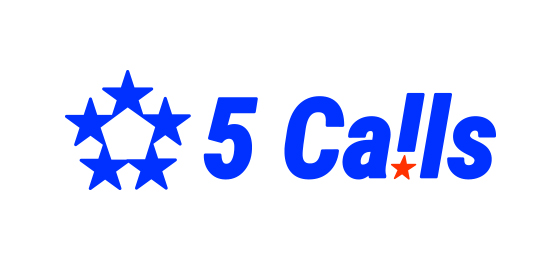
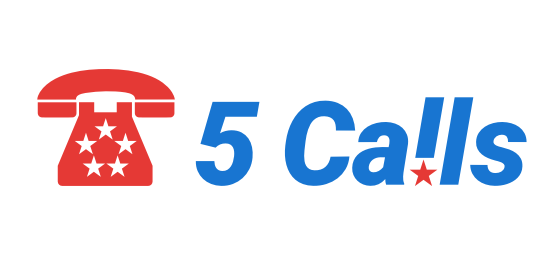
and we're puttin' it on wax, it's the new style

Changed region(s): [[0.0607, 0.2286, 0.4857, 0.6857], [0.4857, 0.3143, 0.9411, 0.6857]]

diff --git a/static/html/index.html b/static/html/index.html
@@ -7,14 +7,14 @@
 
     <!-- Schema.org markup for Google+ -->
     <meta itemprop="name" content="5 Calls">
-    <meta itemprop="description" content="5 calls a day to make your voice heard">
+    <meta itemprop="description" content="Spend 5 minutes. Make 5 calls. Make your voice heard.">
     <meta itemprop="image" content="https://5calls.org/img/5calls-logo.png">
 
     <!-- Twitter Card data -->
     <meta name="twitter:card" content="summary_large_image">
     <meta name="twitter:site" content="@make5calls">
     <meta name="twitter:title" content="5 Calls">
-    <meta name="twitter:description" content="5 calls a day to make your voice heard">
+    <meta name="twitter:description" content="Spend 5 minutes. Make 5 calls. Make your voice heard.">
     <meta name="twitter:image:src" content="https://5calls.org/img/5calls-twitter.png">
 
     <!-- Open Graph data -->
@@ -22,7 +22,7 @@
     <meta property="og:type" content="website" />
     <meta property="og:url" content="https://5calls.org" />
     <meta property="og:image" content="https://5calls.org/img/5calls-twitter.png" />
-    <meta property="og:description" content="5 calls a day to make your voice heard" />
+    <meta property="og:description" content="Spend 5 minutes. Make 5 calls. Make your voice heard." />
     <meta property="og:site_name" content="5 Calls" />
     <meta property="fb:app_id" content="1201592636562906" />
 
@@ -49,7 +49,11 @@
     <script src="https://use.fontawesome.com/e87f1bc9b3.js"></script>
   </head>
   <body>
+
+    <header class="logo__header" role="banner"></header>
+
     <div id="root" class="layout">
+
       <aside id="nav" role="contentinfo" class="layout__side">
         <div class="issues">
           <header class="issues__header" role="banner">
@@ -81,9 +85,19 @@
     </div>
     <footer>
       <div class="tinyletter__form">
-        <form action="https://tinyletter.com/fivecalls" method="post" target="popupwindow" onsubmit="window.open('https://tinyletter.com/fivecalls', 'popupwindow', 'scrollbars=yes,width=800,height=600');return true"><label for="tlemail">Get email alerts once a week:</label><input type="text" style="width:140px" name="email" id="tlemail" /><input type="hidden" value="1" name="embed"/><input type="submit" value="Subscribe" /></form>
+        <form action="https://tinyletter.com/fivecalls" method="post" target="popupwindow" onsubmit="window.open('https://tinyletter.com/fivecalls', 'popupwindow', 'scrollbars=yes,width=800,height=600');return true">
+          <label for="tlemail">Get email reminders once a week:</label>
+          <input type="text" style="width:140px" name="email" id="tlemail" />
+          <input type="hidden" value="1" name="embed"/>
+          <input type="submit" value="Subscribe" /></form>
       </div>
-      <a href="https://github.com/5calls/5calls"><i class="fa fa-github" aria-hidden="true"></i> Open Source</a>&nbsp;&nbsp;and&nbsp;&nbsp;<a href="https://twitter.com/make5calls"><i class="fa fa-twitter" aria-hidden="true"></i> Updates on Twitter</a>
+      <a href="https://github.com/5calls/5calls">
+        <i class="fa fa-github" aria-hidden="true"></i> Open Source
+      </a>
+      &nbsp;&nbsp;—&nbsp;&nbsp;
+      <a href="https://twitter.com/make5calls">
+        <i class="fa fa-twitter" aria-hidden="true"></i> Updates on Twitter
+      </a>
     </footer>
 
     <script src="/js/app.js"></script>

diff --git a/static/scss/_layout.scss b/static/scss/_layout.scss
@@ -1,64 +1,32 @@
 .layout {
-  max-width: $bp-large;
-  margin: 0 auto;
-  padding: 2rem 0;
-  display: flex;
-  flex-direction: column;
-  min-height: 100%;
 
-  @media (min-width: $bp-medium) {
-    flex-direction: row;
-    margin: 0 3rem -4rem 3rem;
-    padding: 3rem 0 5rem;
-  }
-
-  @media (min-width: $bp-large) {
-    margin: 0 auto -4rem auto;
-    padding: 5rem 0;
-  }
 }
 
 .layout__side {
-  width: calc(100% - 1rem);
-  margin: .5rem;
 
-  @media (min-width: $bp-medium) {
-    width: 4/12 * 100%;
-    margin: 0;
-    margin-right: 1/24 * 100%;
-  }
 }
 
 .layout__main {
-  width: calc(100% - 1rem);
-  margin: .5rem;
 
-  @media (min-width: $bp-medium) {
-    margin: 0;
-    width: 15/24 * 100%;
-  }
+}
+
+.logo__header {
+  background-color: $red;
+  background-image: url('/img/5calls-logo.png');
+  background-position: center;
+  background-repeat: no-repeat;
+  background-size: 48px auto;
+  height: 64px;
 }
 
 footer {
-  height: 4rem;
+  background-color: $red;
   text-align: center;
-  font-size: 1.2rem;
-  color: #999;
+  font-size: $font-small;
+  color: #fff;
 
   .tinyletter__form {
     margin: 10px 0;
-
-    label {
-      color: #fff;
-    }
-
-    input[type=text] {
-      margin: 0 10px;
-    }
-
-    input[type=submit] {
-      border-radius: 8px;
-    }
   }
 
   a {

diff --git a/static/scss/_variables-and-mixins.scss b/static/scss/_variables-and-mixins.scss
@@ -1,39 +1,39 @@
 // COLORS
+$red: #e53935;
+$white: #fff;
+$blue: #1875d1;
+$green: #0f9d58;
+$gray: #666;
 
-$blue: #0066cc;
-$blue-darker: #0d4d8e;
-$gray-dark: #333;
-$gray-lighter: #666;
-
-$color-text: $gray-dark;
-$color-link: $blue;
+$color-bg: $white;
+$color-text: $blue;
+$color-link: $red;
+$color-success: $green;
 
 // FONTS
-
 $font-sans: 'Roboto Condensed', sans-serif;
+$font-small: 16px;
+$font-normal: 18px;
+$font-large: 21px;
+$font-xlarge: 48px;
+$font-xxlarge: 60px;
 
 // SIZES
+$bp-large:  1024px;
+$bp-medium: 768px;
+$bp-small:  481px;
 
-$bp-large:  85rem;
-$bp-medium: 45rem;
-$bp-small:  28rem;
-
-// mixin to reduce amount of code for responsive design tweaks
+// RESPONSIVE
 @mixin bp($point) {
-
-  @if $point == large {
-    @media only screen and (min-width: $bp-large) { @content; }
-  }
-  @else if $point == medium {
+  @if $point == medium {
     @media only screen and (max-width: $bp-medium) { @content; }
   }
   @else if $point == small {
     @media only screen and (max-width: $bp-small) { @content; }
   }
-
 }
 
-// for debugging layout
+// DEBUG
 @mixin debug-layout($color: black, $important: false) {
   @if $important {
     * {

diff --git a/static/scss/_elements.scss b/static/scss/_elements.scss
@@ -3,13 +3,12 @@
 }
 
 body {
-  color: $color-text;
   font-family: $font-sans;
-  background-color: $blue-darker;
-  background-image: url(/img/5calls_bgd.jpg);
-  background-size: cover;
-  background-position: 50% 50%;
-  min-height: 100vh;
+  color: $color-text;
+  background-color: $color-bg;
+  @include bp(small) {
+
+  }
 }
 
 html, body {
@@ -17,16 +16,12 @@ html, body {
 }
 
 p {
-  margin: 0 0 1rem;
+  font-size: $font-small;
 }
 
 a {
-  color: $blue;
+  color: $color-link;
   text-decoration: none;
-
-  transition-property: color, background-color, border;
-  transition-duration: 0.2s;
-  transition-timing-function: ease;
 
   &:hover,
   &:focus {
@@ -37,8 +32,12 @@ a {
 
 button {
   font-family: $font-sans;
+}
 
-  transition-property: background-color;
-  transition-duration: 0.2s;
-  transition-timing-function: ease;
+input[type=text] {
+  margin: 0 10px;
+}
+
+input[type=submit] {
+  border-radius: 8px;
 }

diff --git a/static/js/components/contact.js b/static/js/components/contact.js
@@ -12,7 +12,7 @@ module.exports = (c, state, prev, send) => {
 
 	return html`
       <div class="call__contact" id="contact">
-        <div class="call__contact__image"><div class="crop"><img src="${photoURL}"/></div></div>
+        <div class="call__contact__image"><img src="${photoURL}"/></div>
         <p class="call__contact__type">Call this office:</p>
         <p class="call__contact__name">${c.name} ${repID}</p>
         <p class="call__contact__phone">

diff --git a/static/scss/_utility.scss b/static/scss/_utility.scss
@@ -2,14 +2,3 @@
 .hidden {
 	display: none;
 }
-
-.crop {
-  height: 100%;
-  overflow: hidden;
-  position: relative;
-  
-  img {
-    display: block;
-    margin: auto;
-  }
-}

diff --git a/static/scss/_issues.scss b/static/scss/_issues.scss
@@ -30,7 +30,7 @@
   }
 
   &__subtitle {
-    color: $gray-dark;
+    color: $gray;
     font-size: 1.4rem;
 
     input {

diff --git a/static/scss/style.scss b/static/scss/style.scss
@@ -12,5 +12,5 @@
 @import 'call';
 @import 'about';
 
-// enable to debug layout
+// Debug
 // @include debug-layout();

diff --git a/static/scss/_call.scss b/static/scss/_call.scss
@@ -16,7 +16,6 @@
     @include bp(small) {
       font-size: 2.2rem;
     }
-
   }
 
   &__reason {
